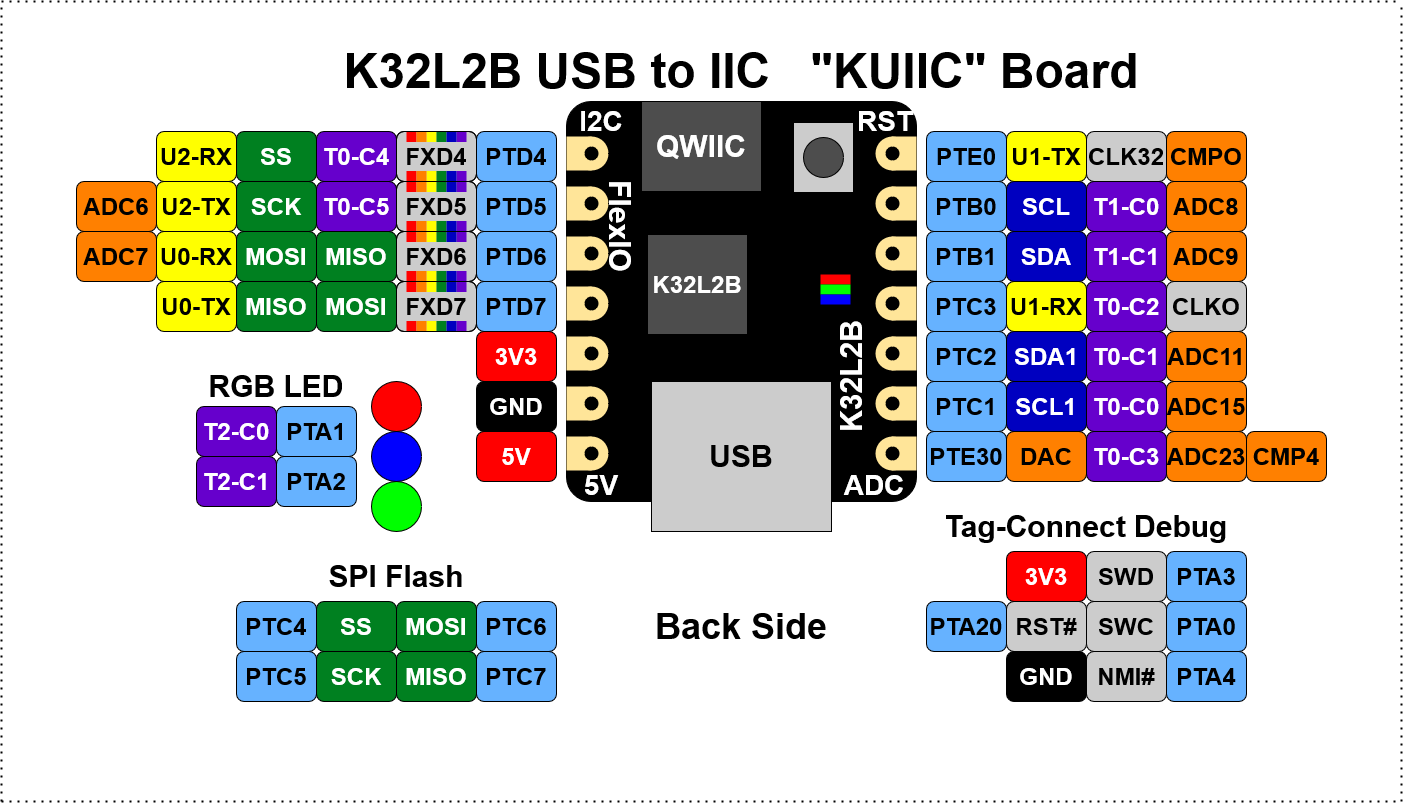
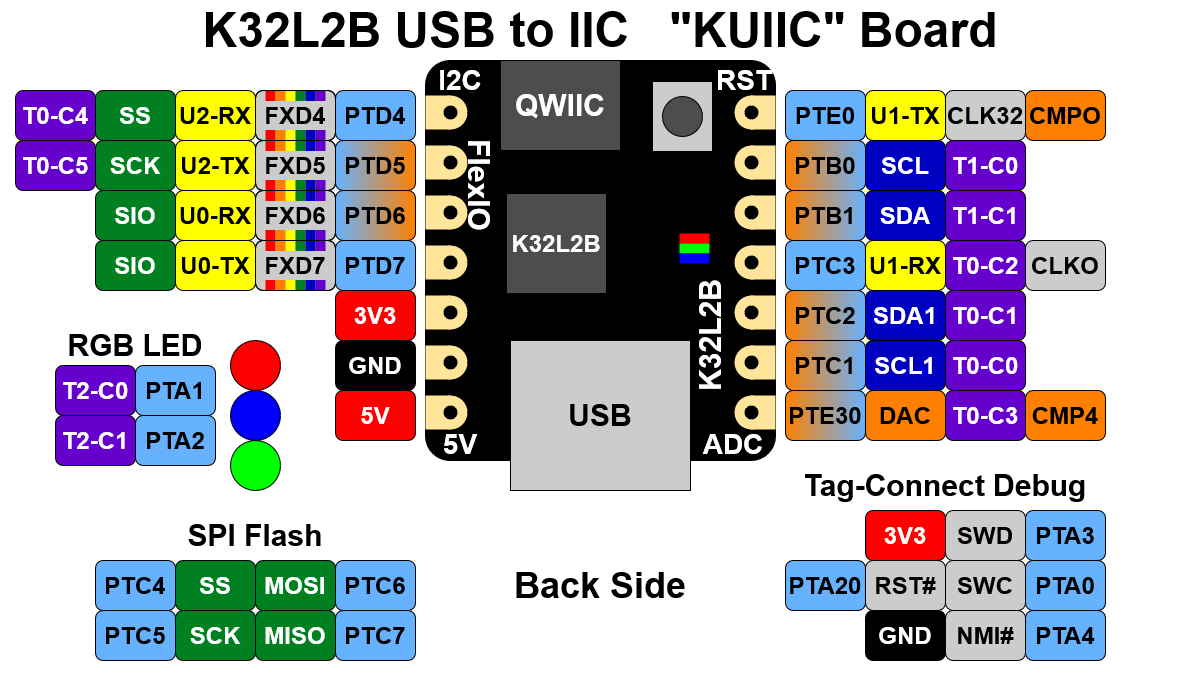
updated readme and pinout diagram

diff --git a/README.md b/README.md
@@ -2,6 +2,10 @@
 
 ## K32L2B USB to IIC Kit
 
-This board is a tiny USB to Qwiic development board in a bread-board friendly DIP form factor.  In addition to micro USB and Qwiic connectors, it also has two buttons, SPI flash and two rows of 100mil pitch header footprints for additional expansion.  The MCU is an NXP K32L2B Arm Cortex-M0+ with crystal-less USB and integrated VBUS to 3V regulator.  
+This board is a tiny USB to Qwiic development board in a bread-board friendly DIP form factor.  In addition to micro USB and Qwiic connectors, it also has a reset button, RGB LED, and footprint for SPI flash expansion on the back of the board.  The pinout and form factor are designed to be compatible with the Seeeduino XIAO board.  The MCU is an NXP K32L2B Arm Cortex-M0+ with crystal-less USB and integrated VBUS to 3V regulator.  
 
 ![Kuiic Pinout](img/kuiic-pinout.png)
+
+## Software Support
+
+This board is currently supported by the open source [TinyUSB](https://docs.tinyusb.org/en/latest/) and Adafruit's [TinyUF2](https://github.com/adafruit/tinyuf2) to enable drag-n-drop firmware updates.
